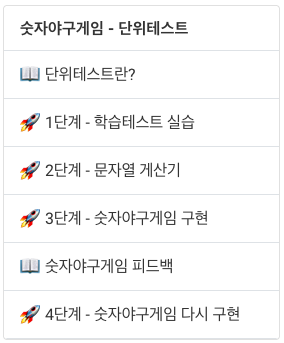
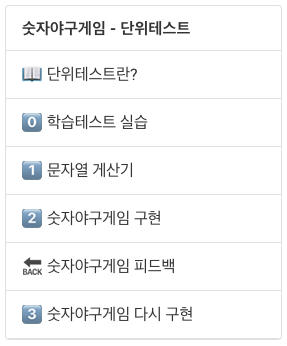
change mission baseball image, add docs master or main

diff --git a/playground/README.md b/playground/README.md
@@ -99,18 +99,20 @@ push 명령을 실행한 후의 상태는 다음과 같다.
 ---
 1. 피드백 강의 전까지 미션 진행 
 > 피드백 강의 전까지 혼자 힘으로 미션 진행. 미션을 진행하면서 하나의 작업이 끝날 때 마다 add, commit
-> 예를 들어 다음 숫자 야구 게임의 경우 1, 2, 3단계까지 구현을 완료한 후 push
+> 예를 들어 다음 숫자 야구 게임의 경우 0, 1, 2단계까지 구현을 완료한 후 push
 
 ![mission baseball](./images/mission_baseball.png)
 
 ---
-2. 각 미션별 피드백을 학습한다.
+2. 피드백 앞 단계까지 미션 구현을 완료한 후 피드백 강의를 학습한다.
 
 ---
 3. Git 브랜치를 master 또는 main으로 변경한 후 피드백을 반영하기 위한 새로운 브랜치를 생성한 후 처음부터 다시 미션 구현을 도전한다.
 
 ```
-git checkout master
+git branch -a // 모든 로컬 브랜치 확인
+git checkout master // 기본 브랜치가 master인 경우
+git checkout main // 기본 브랜치가 main인 경우
 
 git checkout -b 브랜치이름
 ex) git checkout -b apply-feedback
